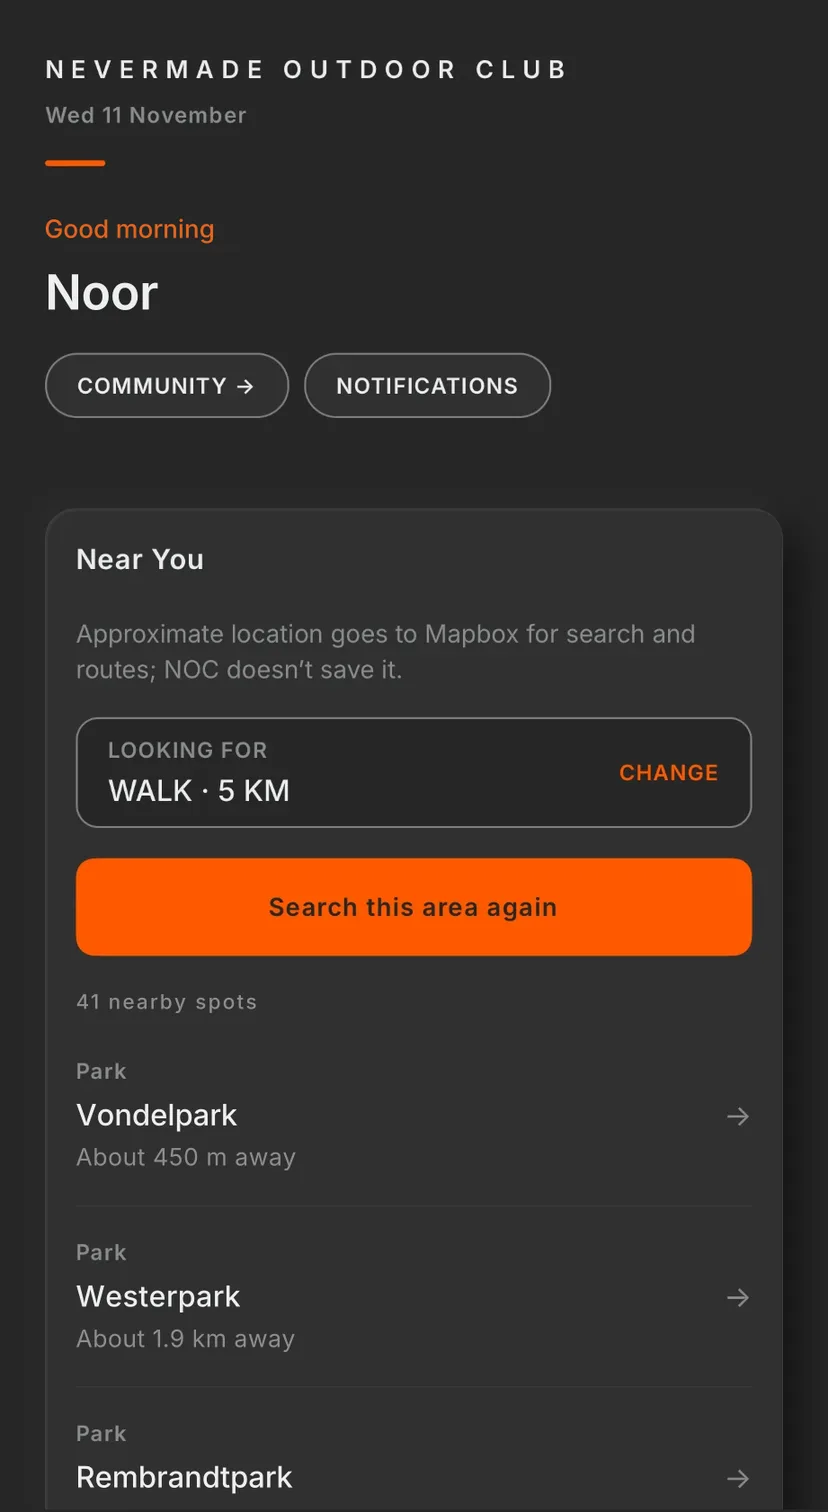
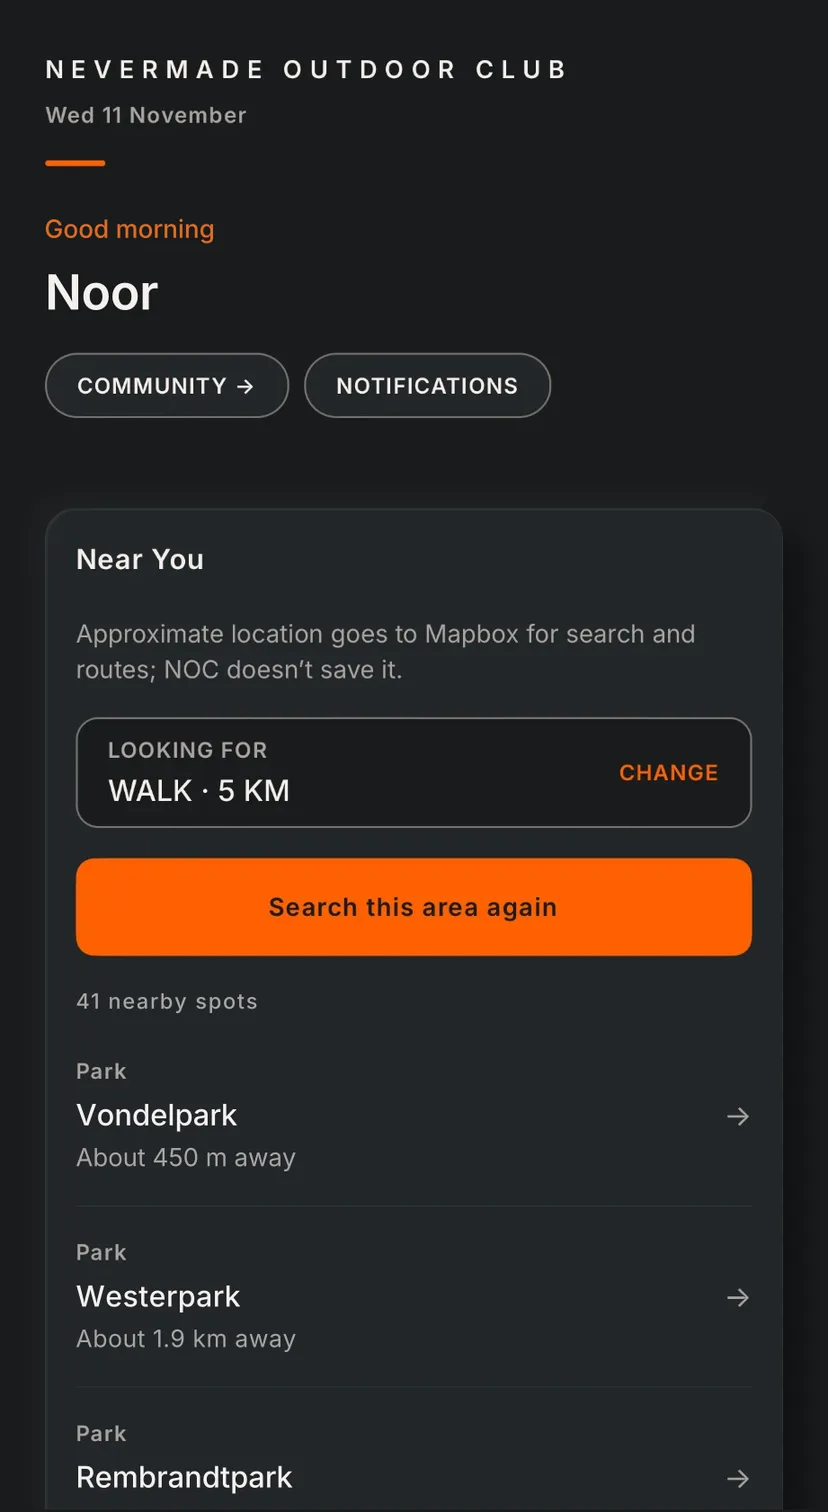
feat: app showcase in the new colours (Home, Explore, Go, Mine)
Fresh iPhone screenshots of the cobalt/ivory/pumpkin app, with the same
example data (Noor, Amsterdam), clean status bar and tab bars. Next is out
until its new screenshot arrives.

diff --git a/src/data/app-screens.ts b/src/data/app-screens.ts
@@ -2,6 +2,7 @@
 // Files live in public/app/ (made from iPhone screenshots in screens-src/ by
 // `npm run screens`). `alt` describes the screen for people who can't see it;
 // keep it true to the image.
+// (Next is out for now: the new-colour screenshot of it is still to come.)
 export interface AppScreen {
   file: string;
   title: string;
@@ -15,12 +16,6 @@ export const APP_SCREENS: AppScreen[] = [
     title: 'Home',
     caption: 'Spots to get outside, near you',
     alt: 'The Home screen of the NOC app: a greeting for Noor, buttons for Community and Notifications, and "Near you", a list of nearby parks in Amsterdam for a 5 km walk, such as Vondelpark and Westerpark.',
-  },
-  {
-    file: '2-next.webp',
-    title: 'Next',
-    caption: 'Pick your next first',
-    alt: 'The Next screen: "What will you do next?" with a chosen first, a 20 km hike along the Amstel from Amsterdam to Ouderkerk and back, 16.4 km best so far (82% of the way) and a Go button.',
   },
   {
     file: '3-explore.webp',
